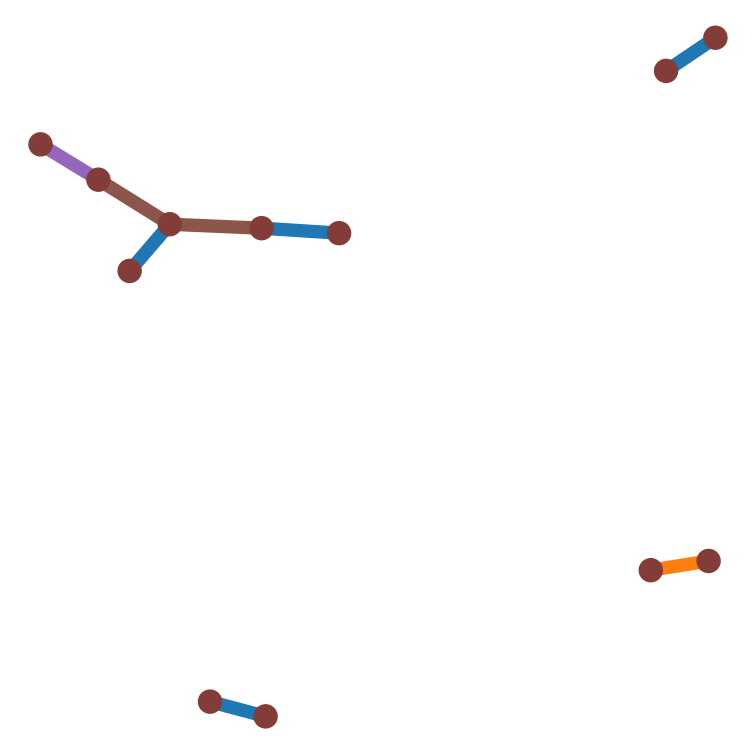
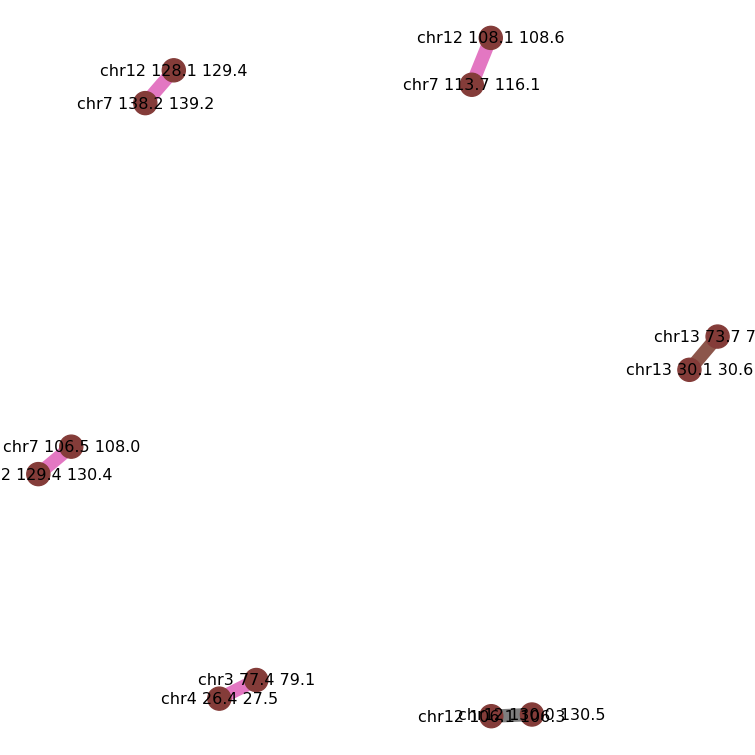
Refactored graph plotting into separate script, instead of while processing

diff --git a/Results/2020-02-19_chromoplexy/plot-breakpoint-graphs.py b/Results/2020-02-19_chromoplexy/plot-breakpoint-graphs.py
@@ -1,0 +1,69 @@
+"""
+breakpoint-bridging
+==========
+
+Take Breakfinder results and link breakpoints together by their positions
+"""
+
+import os.path as path
+import networkx as nx
+import pickle
+from genomic_interval import GenomicInterval, overlapping
+import matplotlib
+
+matplotlib.use("Agg")
+import matplotlib.pyplot as plt
+
+plt.rcParams["figure.figsize"] = (20 / 2.54, 20 / 2.54)  # 20x20 cm
+
+# ==============================================================================
+# Constants
+# ==============================================================================
+BREAK_DIR = path.join("..", "2019-07-24_breakfinder", "Breakpoints", "Default")
+unique_annots = ["nearby", "recurrent", "DUP", "INS", "INV", "DEL", "BND", "UNKNOWN"]
+
+# ==============================================================================
+# Data
+# ==============================================================================
+# load graphs
+G_all = pickle.load(open("breakpoints.all-samples.p", "rb"))
+G_sample = pickle.load(open("breakpoints.per-sample.p", "rb"))
+samples = list(G_sample.keys())
+
+# ==============================================================================
+# Plots
+# ==============================================================================
+# colours for edges between breakpoints
+
+edges, e_annots = zip(*nx.get_edge_attributes(G_all, "annotation").items())
+n_colours = [plt.cm.tab20b(samples.index(n.data["sample"])) for n in G_all]
+e_colours = [plt.cm.tab10(unique_annots.index(a)) for a in e_annots]
+pos = nx.circular_layout(G_all)
+nx.draw(
+    G_all,
+    pos,
+    edgelist=None,
+    node_color=n_colours,
+    edge_color=e_colours,
+    with_labels=False,
+    width=1,
+)
+plt.savefig(path.join("Plots", "breakpoint-graph.png"), dpi=96)
+plt.close()
+
+for i, s in enumerate(samples):
+    n_colours = [plt.cm.tab20b(i)] * len(G_sample[s])
+    edges, e_annots = zip(*nx.get_edge_attributes(G_sample[s], "annotation").items())
+    e_colours = [plt.cm.tab10(unique_annots.index(a)) for a in e_annots]
+    pos = nx.spring_layout(G_sample[s])
+    nx.draw(
+        G_sample[s],
+        pos,
+        edgelist=None,
+        node_color=n_colours,
+        edge_color=e_colours,
+        with_labels=True,
+        width=10,
+    )
+    plt.savefig(path.join("Plots", s + ".png"), dpi=96)
+    plt.close()

diff --git a/Results/2020-02-19_chromoplexy/breakpoint-components.py b/Results/2020-02-19_chromoplexy/breakpoint-components.py
@@ -13,11 +13,6 @@ from tqdm import tqdm
 import pickle
 from genomic_interval import GenomicInterval, overlapping
 
-import matplotlib
-matplotlib.use("Agg")
-import matplotlib.pyplot as plt
-plt.rcParams["figure.figsize"] = (20/2.54, 20/2.54) # 20x20 cm
-
 # ==============================================================================
 # Constants
 # ==============================================================================
@@ -133,45 +128,6 @@ for s in SAMPLES:
                 # if the two breakpoints are from the same sample, they're nearby
                 G_sample[s].add_edge(n, m, annotation="nearby")
 
-# ==============================================================================
-# Plots
-# ==============================================================================
-print("Plotting graphs")
-# colours for edges between breakpoints
-unique_annots = list(unique(breakpoints["annotation"].tolist() + ["nearby", "recurrent"]))
-
-edges, e_annots = zip(*nx.get_edge_attributes(G_all, "annotation").items())
-n_colours = [plt.cm.tab20b(SAMPLES.index(n.data["sample"])) for n in G_all]
-e_colours = [plt.cm.tab10(unique_annots.index(a)) for a in e_annots]
-pos = nx.circular_layout(G_all)
-nx.draw(
-    G_all,
-    pos,
-    edgelist=None,
-    node_color=n_colours,
-    edge_color=e_colours,
-    with_labels=False,
-    width=1,
-)
-plt.savefig(path.join("Plots", "breakpoint-graph.png"), dpi=96)
-plt.close()
-
-for i, s in enumerate(SAMPLES):
-    n_colours = [plt.cm.tab20b(i)] * len(G_sample[s])
-    edges, e_annots = zip(*nx.get_edge_attributes(G_sample[s], "annotation").items())
-    e_colours = [plt.cm.tab10(unique_annots.index(a)) for a in e_annots]
-    pos = nx.spring_layout(G_sample[s])
-    nx.draw(
-        G_sample[s],
-        pos,
-        edgelist=None,
-        node_color=n_colours,
-        edge_color=e_colours,
-        with_labels=False,
-        width=10,
-    )
-    plt.savefig(path.join("Plots", s + ".png"), dpi=96)
-    plt.close()
 
 # ==============================================================================
 # Save data

diff --git a/Results/2020-02-19_chromoplexy/genomic_interval.py b/Results/2020-02-19_chromoplexy/genomic_interval.py
@@ -23,7 +23,7 @@ class GenomicInterval:
         )
 
     def plot_str(self):
-        return "\n".join(
+        return " ".join(
             [
                 self.chr,
                 coord_pos_str(int(self.interval[0].inf)),
